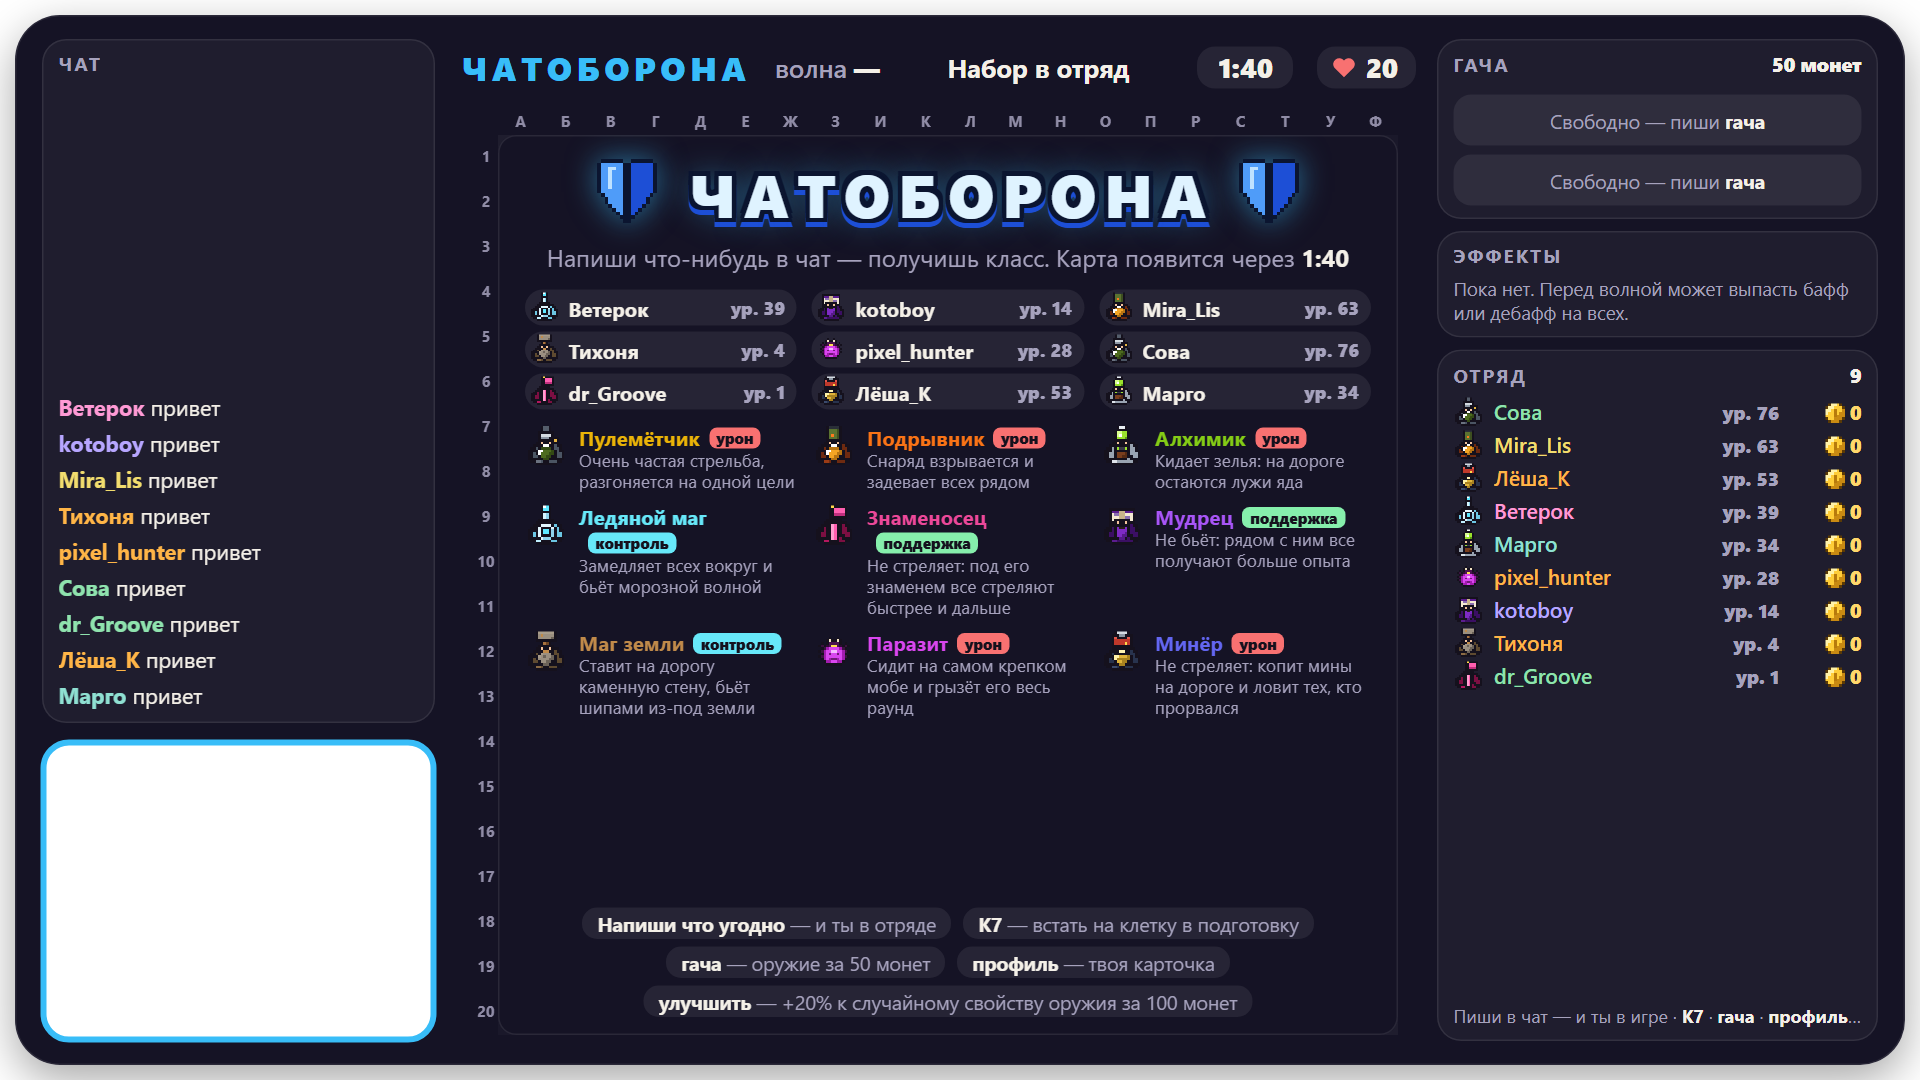
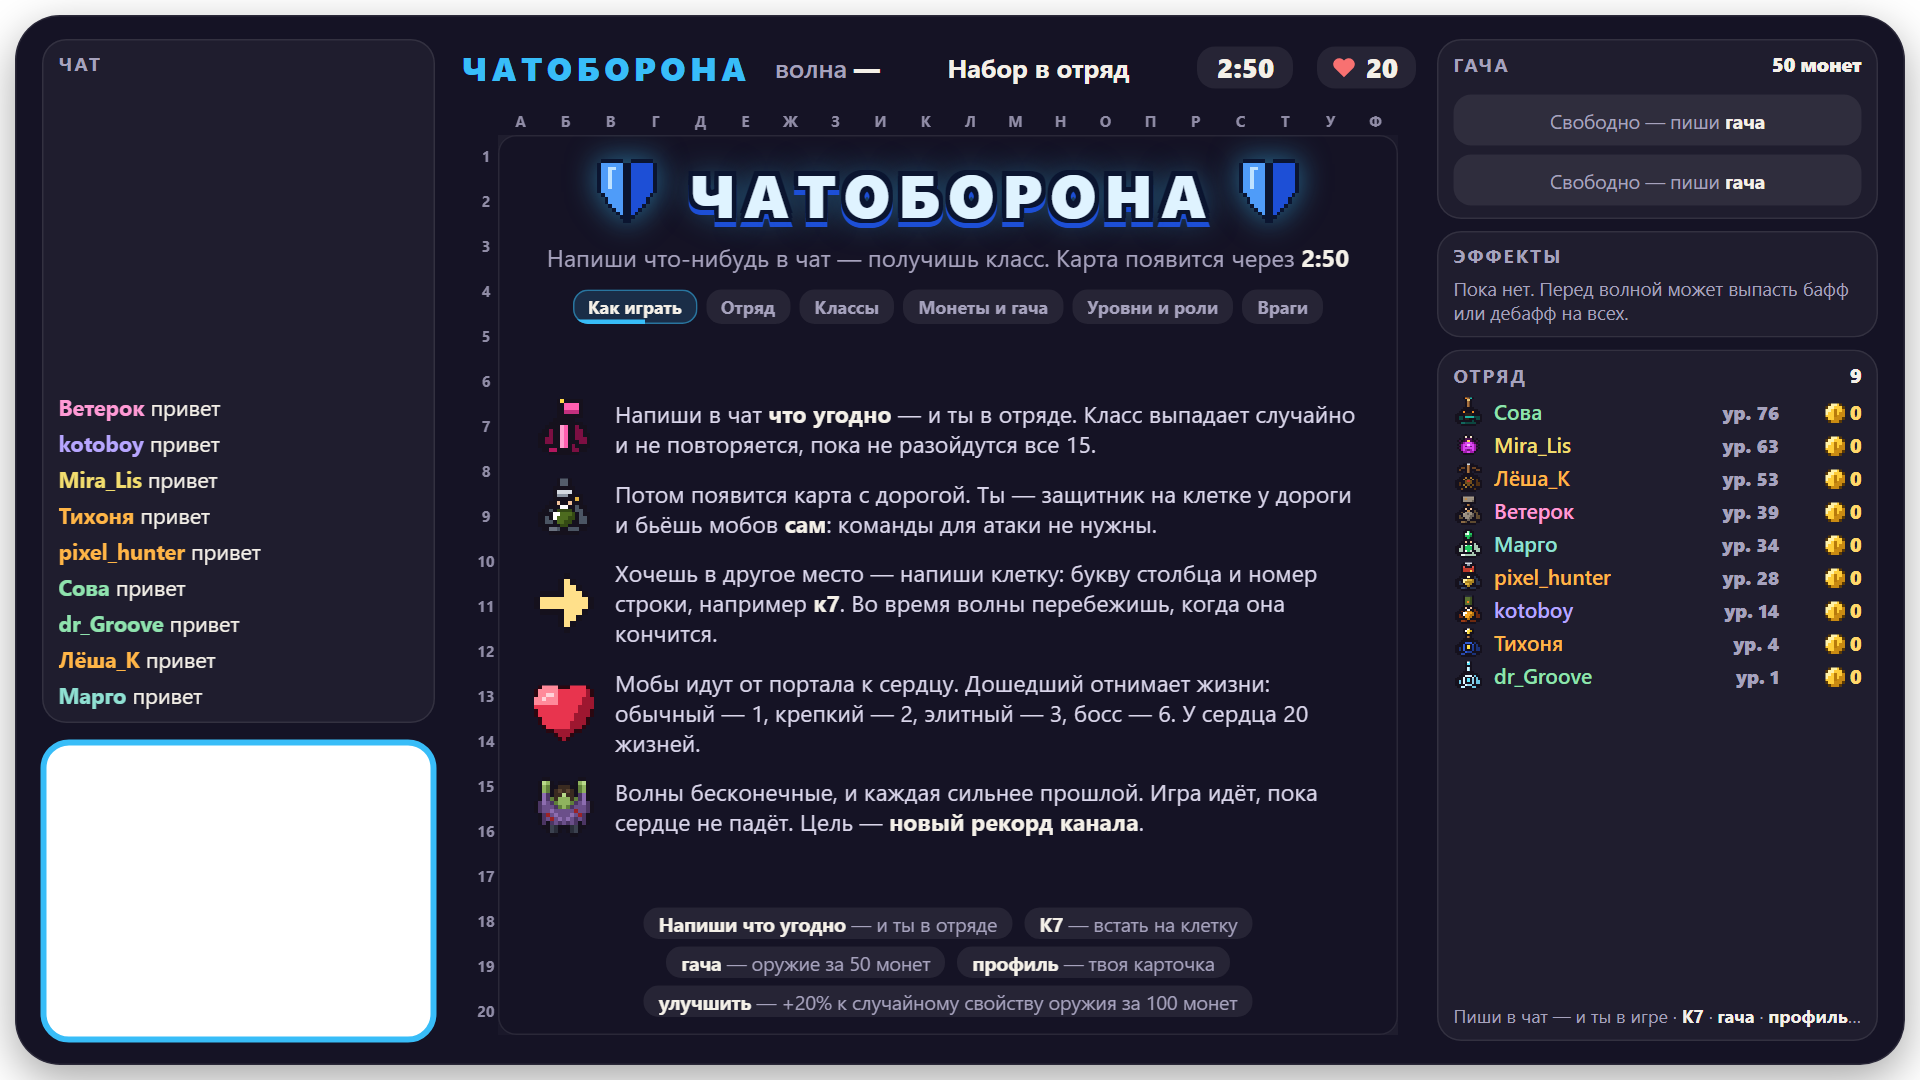
Правила игры на экране набора: страницы сменяются сами

diff --git a/site/js/guide.js b/site/js/guide.js
@@ -1,0 +1,95 @@
+import { CLASSES } from './classes.js';
+import { ASSIST_COINS, KILL_COINS, OUTCOMES, PRICE, RARITIES, UPGRADE_PRICE, UPGRADE_SHARE } from './gacha.js';
+import { ELITE_ODDS, LEVEL_MAX, LIVES, MOBS } from './balance.js';
+import { coinUrl, commandUrl, effectUrl, heartUrl, heroUrl, mobUrl, prizeUrl } from './sprites.js';
+
+const bold = (text) => ({ text, bold: true });
+const tint = (text, color) => ({ text, color });
+const role = (id) => ({ role: id });
+const share = (id) => Math.round(OUTCOMES.find((outcome) => outcome.id === id).chance * 100) + '%';
+const rarities = () => RARITIES.flatMap((rarity, i) => [i ? ', ' : '', tint(rarity.name.toLowerCase(), rarity.color)]);
+
+export const PAGES = [
+  {
+    id: 'how',
+    title: 'Как играть',
+    time: 18,
+    points: () => [
+      [heroUrl('banner'), ['Напиши в чат ', bold('что угодно'), ' — и ты в отряде. Класс выпадает случайно и не '
+        + 'повторяется, пока не разойдутся все ' + CLASSES.length + '.']],
+      [heroUrl('gunner'), ['Потом появится карта с дорогой. Ты — защитник на клетке у дороги и бьёшь мобов ',
+        bold('сам'), ': команды для атаки не нужны.']],
+      [commandUrl('move'), ['Хочешь в другое место — напиши клетку: букву столбца и номер строки, например ',
+        bold('к7'), '. Во время волны перебежишь, когда она кончится.']],
+      [heartUrl(), ['Мобы идут от портала к сердцу. Дошедший отнимает жизни: обычный — ' + MOBS.normal.leak
+        + ', крепкий — ' + MOBS.tough.leak + ', элитный — ' + MOBS.elite.leak + ', босс — ' + MOBS.boss.leak
+        + '. У сердца ' + LIVES + ' жизней.']],
+      [mobUrl('zombie'), ['Волны бесконечные, и каждая сильнее прошлой. Игра идёт, пока сердце не падёт. Цель — ',
+        bold('новый рекорд канала'), '.']],
+    ],
+  },
+  { id: 'squad', title: 'Отряд', time: 10 },
+  { id: 'classes', title: 'Классы', time: 14 },
+  {
+    id: 'coins',
+    title: 'Монеты и гача',
+    time: 18,
+    points: () => [
+      [coinUrl(), ['За убийство моба — ' + KILL_COINS + ' монеты, за помощь — ' + ASSIST_COINS + '. За каждую '
+        + 'пройденную волну всем ещё монеты и опыт.']],
+      [prizeUrl('weapon', RARITIES[RARITIES.length - 1].color), [bold('гача'), ' — крутка за ' + PRICE
+        + ' монет: оружие под твой класс. Редкость видна по цвету: '].concat(rarities(),
+        ['. Чем реже, тем больше плюсов, у легендарного ещё и особое свойство.'])],
+      [prizeUrl('coins', '#facc15'), ['А может выпасть ', tint('пустота', '#9ca3af'), ' (' + share('void') + ') или ',
+        tint('удвоение', '#facc15'), ' (' + share('coins') + '): потраченные ' + PRICE + ' монет вернутся вдвое.']],
+      [prizeUrl('weapon', RARITIES[1].color), ['Оружие не хуже твоего надевается само и действует до конца игры. '
+        + 'Монеты и оружие — на одну игру, уровни остаются.']],
+      [commandUrl('upgrade'), [bold('улучшить'), ' — за ' + UPGRADE_PRICE + ' монет +' + Math.round(UPGRADE_SHARE * 100)
+        + '% к случайному свойству оружия. Улучшать можно сколько угодно.']],
+    ],
+  },
+  {
+    id: 'levels',
+    title: 'Уровни и роли',
+    time: 18,
+    points: () => [
+      [effectUrl('buff', 'study'), ['Опыт — за каждого моба, которого ты помог убить: ударил, поджёг, замедлил или '
+        + 'усилил того, кто ударил. Добил сам — убийство, нет — помощь.']],
+      [heroUrl('sage'), ['Уровни копятся от игры к игре, до ' + LEVEL_MAX + '-го. С уровнем растут урон, скорость '
+        + 'атаки и главное умение класса.']],
+      [effectUrl('buff', 'fury'), ['На ', bold('10-м'), ' и ', bold('50-м'), ' уровне открываются особые приёмы '
+        + 'класса.']],
+      [heroUrl('frost'), [role('damage'), ' убивает, ', role('control'), ' замедляет и держит, ', role('support'),
+        ' усиливает соседей, лечит базу или даёт опыт. Сильнее всего отряд, где есть все три.']],
+      [commandUrl('card'), [bold('профиль'), ' — твоя карточка: класс с точными числами, приёмы и оружие. '
+        + 'На поле заодно виден радиус твоей атаки.']],
+    ],
+  },
+  {
+    id: 'foes',
+    title: 'Враги',
+    time: 18,
+    points: () => [
+      [mobUrl('bat'), ['С каждым десятком волн приходят новые мобы. Летучих не держат стены, мины, капканы и '
+        + 'лужи.']],
+      [mobUrl('witch'), ['С ' + ELITE_ODDS.from + '-й волны выходят элитные, бывает по нескольку, у каждого свой '
+        + 'навык. Каждая 10-я волна — босс.']],
+      [mobUrl('skeleton'), ['Скелеты встают после смерти. Насовсем их упокаивает только лекарь. Элементалей не '
+        + 'берёт своя стихия, слизни при смерти делятся.']],
+      [mobUrl('mimic'), [tint('Мимик', '#facc15'), ' — сундук на ножках. Убьёте — золото всем, кто бил, и двойные '
+        + 'монеты в следующей волне.']],
+      [effectUrl('buff', 'haste'), ['Перед волной может выпасть событие: бафф или дебафф на волну, благословение '
+        + 'или проклятие до конца игры.']],
+    ],
+  },
+];
+
+export function pageAt(seconds) {
+  const cycle = PAGES.reduce((sum, page) => sum + page.time, 0);
+  let left = ((seconds % cycle) + cycle) % cycle;
+  for (const page of PAGES) {
+    if (left < page.time) return { page, part: left / page.time };
+    left -= page.time;
+  }
+  return { page: PAGES[0], part: 0 };
+}

diff --git a/site/js/view.js b/site/js/view.js
@@ -8,6 +8,7 @@ import { LEVEL_MAX, LIVES, levelOf, xpForLevel } from './balance.js';
 import { SIZE } from './field.js';
 import { Emotes } from './emotes.js';
 import { SFX_GAPS, play } from './sound.js';
+import { PAGES, pageAt } from './guide.js';
 
 const STAGE_WIDTH = 1280, STAGE_HEIGHT = 720;
 const PAINT_EVERY = 0.15;
@@ -17,7 +18,7 @@ const HERALD_TIME = 10;
 const LOW_LIVES = 5;
 const BOSS_EVERY = 10;
 const FINAL_SECONDS = 3;
-const ROWS = { over: 5, roster: 18, pause: 10, pauseShort: 8, queue: 3, cards: 2, player: 22 };
+const ROWS = { over: 5, roster: 30, pause: 10, pauseShort: 8, queue: 3, cards: 2, player: 22 };
 const REEL = { cells: 26, result: 21, width: 46 };
 const BIG_PRIZES = new Set(['epic', 'legendary']);
 const CYCLES = new Map([['rainbow', 2400], ['heart', 15000]]);
@@ -41,7 +42,7 @@ const STATUS = {
 };
 const RULES = [
   ['Напиши что угодно', '— и ты в отряде'],
-  ['К7', '— встать на клетку в подготовку'],
+  ['К7', '— встать на клетку'],
   ['гача', '— оружие за ' + PRICE + ' монет'],
   ['профиль', '— твоя карточка'],
   ['улучшить', '— +20% к случайному свойству оружия за ' + UPGRADE_PRICE + ' монет'],
@@ -53,6 +54,14 @@ function el(tag, className, text) {
   const node = document.createElement(tag);
   if (className) node.className = className;
   if (text !== undefined) node.textContent = text;
+  return node;
+}
+
+function guidePart(part) {
+  if (typeof part === 'string') return part;
+  if (part.role) return el('i', 'role ' + part.role, ROLES[part.role]);
+  const node = el(part.bold ? 'b' : 'span', '', part.text);
+  if (part.color) node.style.color = part.color;
   return node;
 }
 
@@ -471,6 +480,7 @@ export class View {
 
   _paintLobby(game, still) {
     $('lobby-clock').textContent = clockText(game.left);
+    this._paintGuide(game, still);
     const members = Array.from(game.members.values());
     const rosterKey = JSON.stringify(members.map((m) => [m.login, m.cls, levelOf(m.xp)]));
     this._once('roster', rosterKey, () => {
@@ -499,6 +509,36 @@ export class View {
         item.append(image(heroUrl(cls.id)), text);
         box.append(item);
       }
+    });
+  }
+
+  _paintGuide(game, still) {
+    const { page, part } = pageAt(Math.max(0, game.s.lobby - game.left));
+    this._once('tabs', page.id, () => {
+      const box = $('lobby-tabs');
+      box.textContent = '';
+      for (const item of PAGES) {
+        const tab = el('span', item === page ? 'on' : '', item.title);
+        if (item === page) tab.append(el('i'));
+        box.append(tab);
+      }
+    });
+    const fill = $('lobby-tabs').querySelector('i');
+    if (fill) fill.style.width = (part * 100).toFixed(1) + '%';
+    $('lobby-squad').hidden = page.id !== 'squad';
+    $('lobby-classes').hidden = page.id !== 'classes';
+    $('lobby-guide').hidden = !page.points;
+    if (!page.points) return;
+    this._once('guide', page.id, () => {
+      const box = $('lobby-guide');
+      box.textContent = '';
+      page.points().forEach(([icon, parts], i) => {
+        const item = el('li', still ? '' : 'pop'), text = el('span');
+        item.style.animationDelay = (i * 0.08).toFixed(2) + 's';
+        for (const part of parts) text.append(guidePart(part));
+        item.append(image(icon), text);
+        box.append(item);
+      });
     });
   }
 

diff --git a/site/css/overlay.css b/site/css/overlay.css
@@ -116,6 +116,29 @@ body {
 }
 .call { margin: 0; font-size: 16px; line-height: 1.35; color: var(--muted); }
 .call b { color: var(--ink); font-variant-numeric: tabular-nums; }
+.tabs { flex: none; display: flex; gap: 6px; }
+.tabs span {
+  position: relative; overflow: hidden; padding: 3px 10px 4px; border-radius: 10px; background: var(--empty);
+  font-size: 12px; font-weight: 700; color: var(--muted);
+}
+.tabs span.on {
+  background: rgba(56, 189, 248, .16); color: var(--ink); box-shadow: inset 0 0 0 1px rgba(56, 189, 248, .5);
+}
+.tabs i {
+  position: absolute; left: 0; bottom: 0; height: 3px; background: var(--accent); transition: width .15s linear;
+}
+.squad { flex: 1; min-height: 0; width: 100%; display: flex; flex-direction: column; gap: 10px; }
+.squad[hidden], .guide[hidden] { display: none; }
+.guide {
+  flex: 1; min-height: 0; width: 100%; margin: 0; padding: 4px 6px 0; list-style: none; display: flex;
+  flex-direction: column; justify-content: center; gap: 13px; text-align: left; overflow: hidden;
+}
+.guide li { display: flex; align-items: center; gap: 14px; font-size: 15.5px; line-height: 20px; color: #d9d5ea; }
+.guide li.pop { animation: guide-in .45s ease-out backwards; }
+.guide img { flex: none; width: 40px; height: 40px; object-fit: contain; image-rendering: pixelated; }
+.guide b { color: var(--ink); }
+.guide .role { margin: 0 2px 0 0; font-size: 12px; line-height: 16px; }
+@keyframes guide-in { from { opacity: 0; transform: translateX(-10px); } }
 .roster {
   flex: none; width: 100%; display: grid; grid-template-columns: repeat(3, minmax(0, 1fr)); gap: 4px 10px;
   text-align: left;

diff --git a/site/overlay.html b/site/overlay.html
@@ -26,8 +26,10 @@
           <div class="title"><img class="emblem" id="emblem-left" alt=""><span>Чатоборона</span><img class="emblem"
             id="emblem-right" alt=""></div>
           <p class="call">Напиши что-нибудь в чат — получишь класс. Карта появится через <b id="lobby-clock"></b></p>
-          <div class="roster" id="roster"></div>
-          <div class="legend" id="legend"></div>
+          <div class="tabs" id="lobby-tabs"></div>
+          <div class="squad" id="lobby-squad"><div class="roster" id="roster"></div></div>
+          <div class="squad" id="lobby-classes" hidden><div class="legend" id="legend"></div></div>
+          <ul class="guide" id="lobby-guide" hidden></ul>
           <ul class="commands" id="lobby-rules"></ul>
         </div>
         <div class="screen over" id="over" hidden>

diff --git a/site/js/sprites.js b/site/js/sprites.js
@@ -1498,6 +1498,8 @@ export const heroSprite = (id) => remember('hero:' + id, () => makeHero(id));
 
 export const mobSprite = (id, frame = 0) => remember('mob:' + id + ':' + frame, () => artSprite(id, frame ? 1 : 0));
 
+export const mobUrl = (id) => remember('mobUrl:' + id, () => mobSprite(id).toDataURL());
+
 export function tintSprite(image, color) {
   return own(image, color, () => {
     const canvas = document.createElement('canvas');
@@ -1730,6 +1732,8 @@ export const heartSprite = () => remember('heart', () => {
   p.px(2, 3, '#ffd2d9');
   return p.outline('#2a0710').canvas();
 });
+
+export const heartUrl = () => remember('heartUrl', () => heartSprite().toDataURL());
 
 export const shieldSprite = () => remember('shield', () => {
   const p = new Pix(16, 18);

diff --git a/tools/shots.py b/tools/shots.py
@@ -21,7 +21,7 @@ PREPARE = {
           kills: 10, assists: 20 });
         game.feed(name, 'привет', { login: name.toLowerCase() });
       });
-      game.left = 101;
+      game.left = game.s.lobby - 9;
       return true;
     })()""",
     "battle": """(() => {
